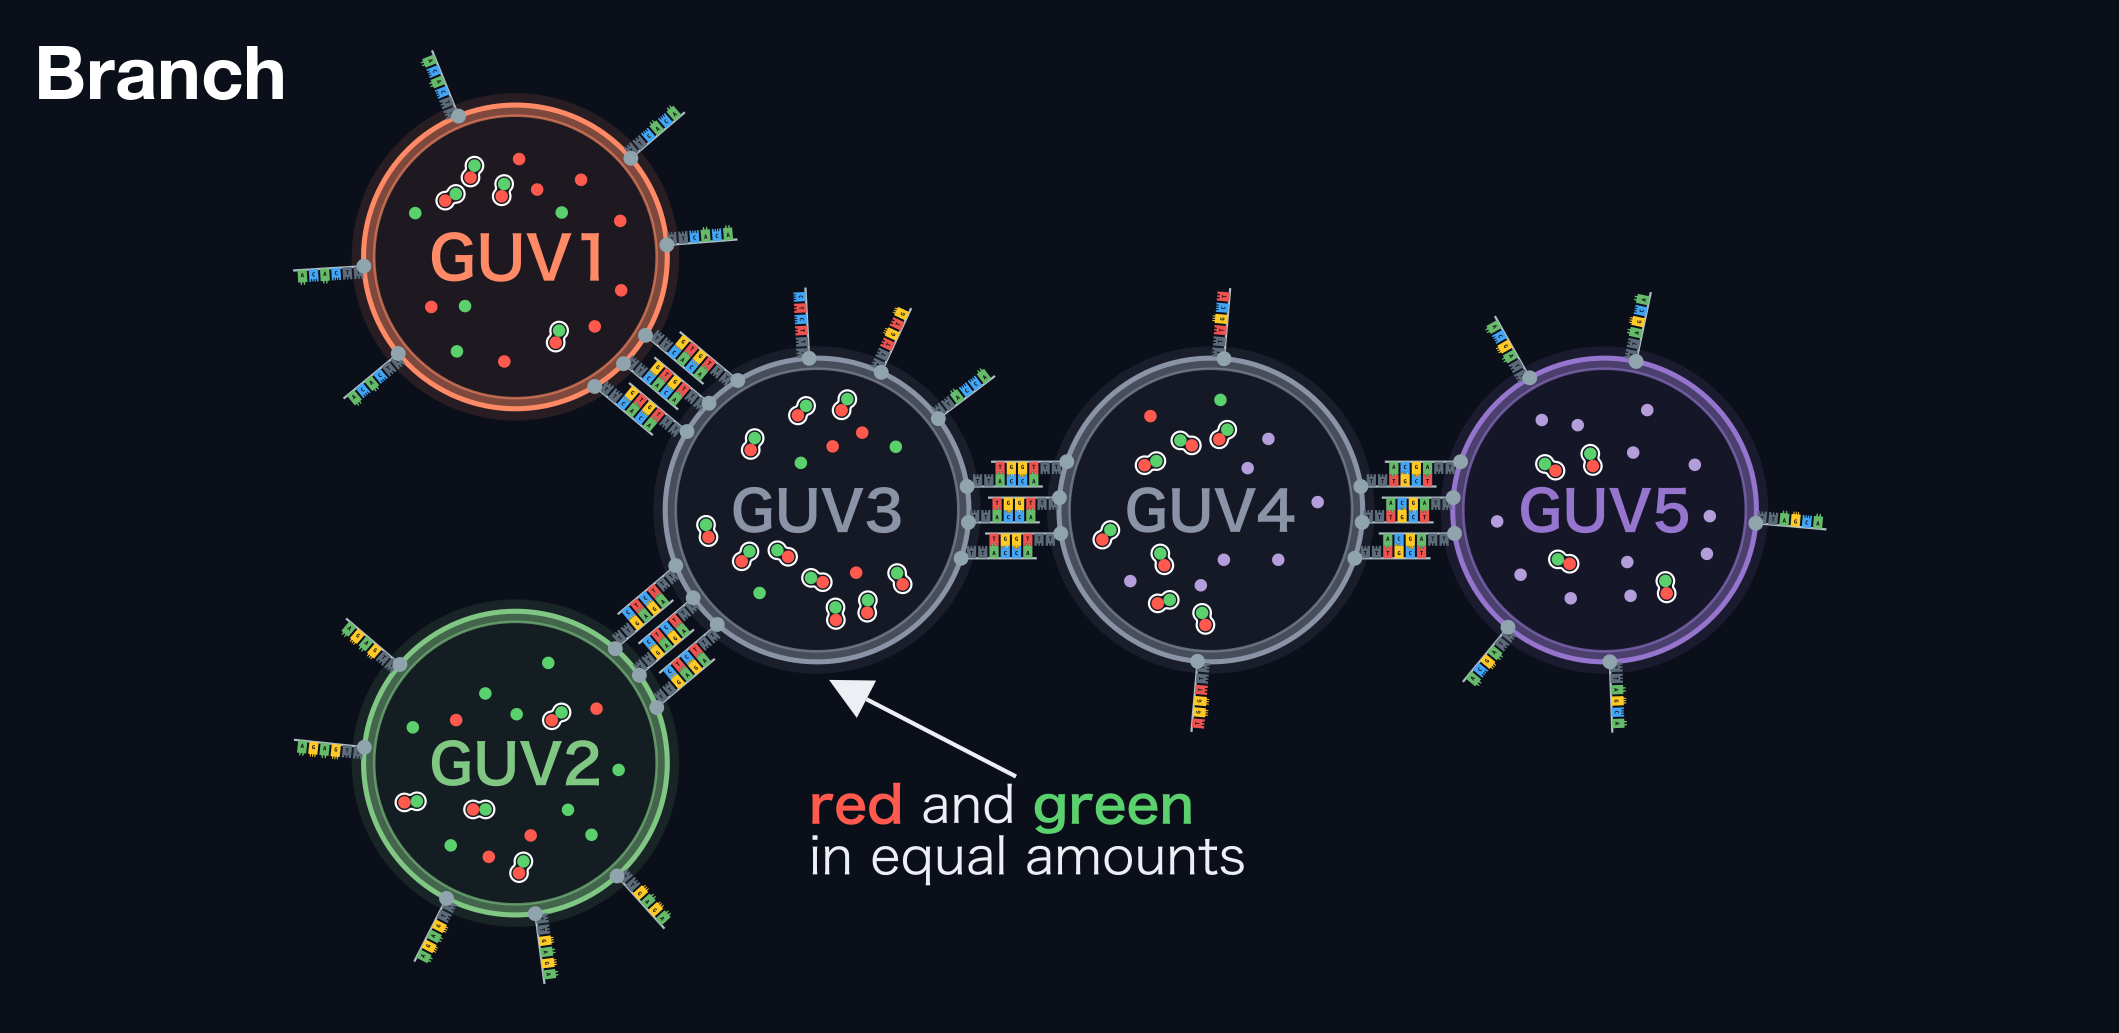
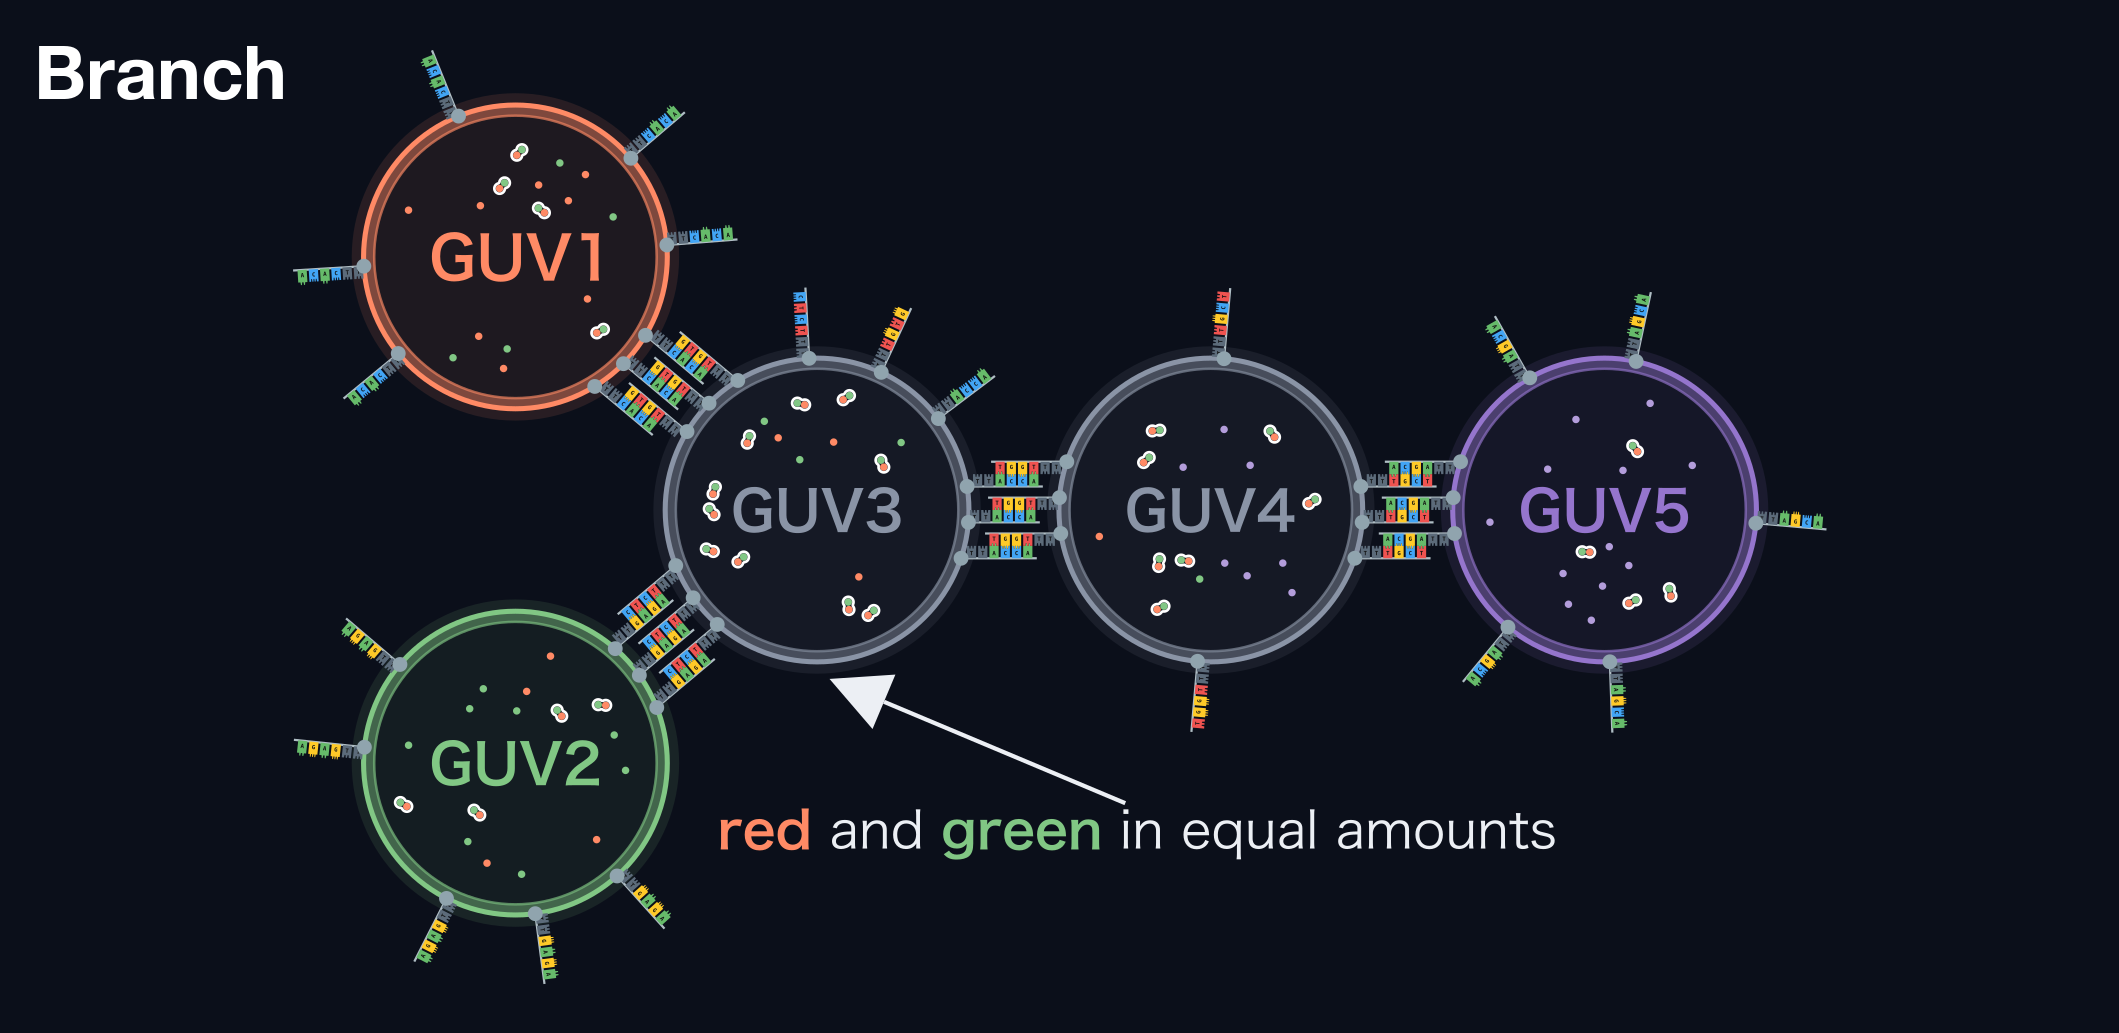
Future Fig. 2: pastel particle colors (same as GUV1/GUV2 membranes), particle size relative to the membrane near Fig. 1, one-line arrow labels, gap between the Line and Branch figures

diff --git a/future.html b/future.html
@@ -85,7 +85,7 @@
                             </p>
                         </div>
                         <figure>
-                            <img src="images/future-convergent-line-v1.png" alt="Line: five GUVs in a line, GUV1 (red) to GUV5 (purple). GUV1 contains red dots and GUV2 contains mostly green dots with some red. GUV3 and GUV4 contain mostly green dots with a few red dots and a few joined red-and-green dots, and GUV5 contains mostly purple dots.">
+                            <img style="margin-bottom:36px;" src="images/future-convergent-line-v1.png" alt="Line: five GUVs in a line, GUV1 (red) to GUV5 (purple). GUV1 contains red dots and GUV2 contains mostly green dots with some red. GUV3 and GUV4 contain mostly green dots with a few red dots and a few joined red-and-green dots, and GUV5 contains mostly purple dots.">
                             <img src="images/future-convergent-branch-v1.png" alt="Branch: a branched network: GUV1 (red) and GUV2 (green) are both connected to GUV3, which is connected to GUV4, which is connected to GUV5 (purple). GUV3 contains mostly joined red-and-green dots, and GUV4 contains joined red-and-green dots and purple dots.">
                             <figcaption><strong>Fig. 2 Reacting the red and green contents and then mixing the product with the purple contents, in a line (top) and in a branched network (bottom).</strong> Red, green and purple dots are the contents of GUV1, GUV2 and GUV5. A red dot and a green dot joined and circled in white are the product of the reaction between the red and green contents. GUV3 and GUV4 are the places where the contents meet.</figcaption>
                         </figure>
